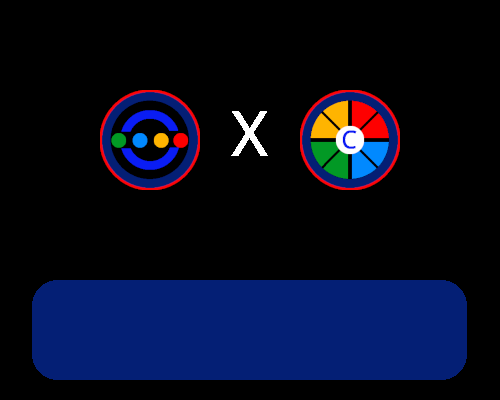
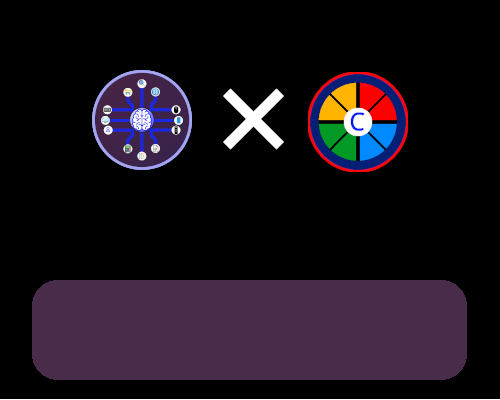
Changement fond pour code help

diff --git a/src/copiloteGUI.py b/src/copiloteGUI.py
@@ -366,7 +366,7 @@ class guiCopilote:
                                                          ptaille=18, justify="left", pwraplength=350)
 
         self.__lparoleCodehelp = self.__arrTK.createLabel(self.__backgroundTopCodehelp,
-                                                       bg="#041f75", fg="white",
+                                                       bg="#482c4a", fg="white",
                                                        ppolice="Arial", pstyle="bold",
                                                        ptaille=18, justify="left", pwraplength=400)
 
